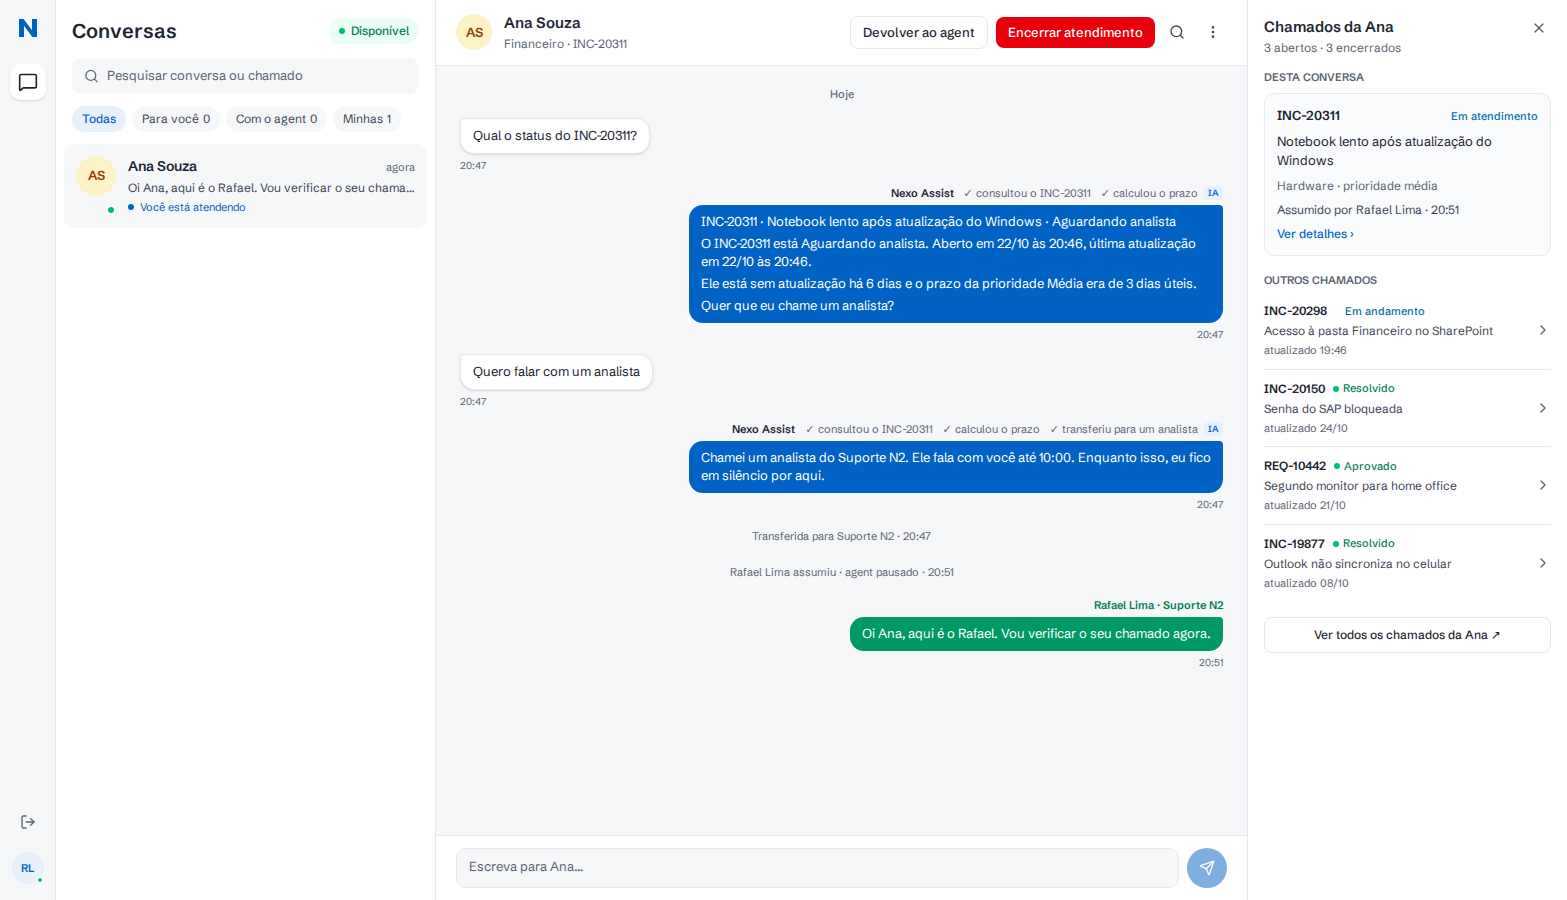
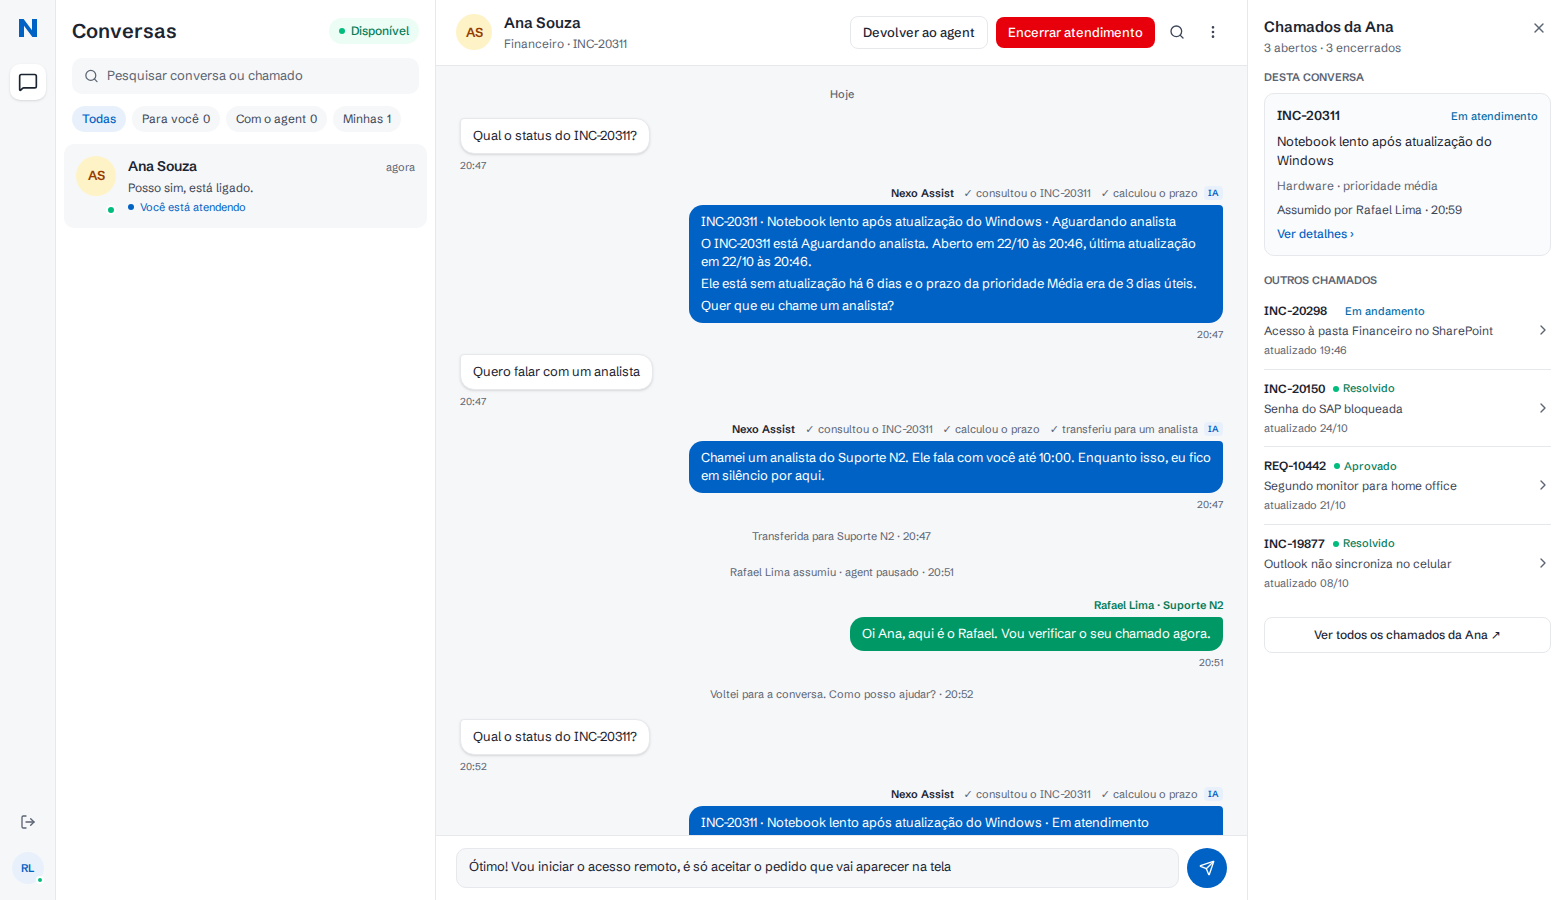
docs(console-analista): relatórios da rodada 1 e achados fechados

diff --git a/.specs/features/console-analista/screens.md b/.specs/features/console-analista/screens.md
@@ -1,0 +1,66 @@
+# Console do analista screens
+
+**Verifier**: independent sub-agent (author != verifier)
+**Round**: 1
+
+Fotos tiradas pelo verificador com Chromium (playwright-core), contexto aberto já no tamanho de cada captura (1440x900 e 1567x900, escala 1x), sem redimensionar. Caminho: Ana pediu analista de novo ("Quero falar com um analista"); Rafael abriu `/console`, escolheu o filtro e clicou em "Ana Souza" (04); depois "Assumir atendimento", resposta "Oi, Ana! Aqui é o Rafael…", Ana respondeu "Posso sim, está ligado." e Rafael deixou um rascunho no campo (05). Em 05 o filtro ativo é "Todas", porque depois de assumir "Para você" fica vazio e a captura mostra a Ana na lista. Dados (nomes, horas, contadores, quantas conversas existem, não lidas, N1/N2) vêm do seed e da caminhada e não contam como diferença.
+
+| Screen | Compared with | Verdict | Finding |
+| --- | --- | --- | --- |
+| `captures/04-console-conversa-transferida.running.png` | `captures/04-console-conversa-transferida.png` | diverges | 15 rows differ |
+| `captures/05-console-atendimento-assumido.running.png` | `captures/05-console-atendimento-assumido.png` | diverges | 13 rows differ |
+
+### `captures/04-console-conversa-transferida.running.png`
+
+| Element | Result | Picture draws |
+| --- | --- | --- |
+| arranjo geral: trilho à esquerda, lista "Conversas", conversa no centro, painel "Chamados da Ana" à direita | same | |
+| trilho: logo "N" no topo, ícone Conversas em botão destacado com badge numérico azul | same | badge "1" (dado) |
+| trilho embaixo: só o avatar "RL" com ponto verde | differs | um botão extra de sair (ícone de saída) acima do avatar "RL" |
+| cabeçalho da lista: título "Conversas" e chip verde "● Disponível" à direita | same | |
+| campo "Pesquisar conversa ou chamado" com lupa | same | |
+| filtros em chips: "Todas", "Para você N" (ativo, azul), "Com o agent N", "Minhas N" | same | |
+| item da lista: avatar com iniciais e ponto de presença verde preso ao canto inferior direito do avatar | differs | o ponto verde fica solto abaixo e fora do avatar, sob a coluna das iniciais |
+| item da lista: nome, hora à direita, prévia truncada, contador de não lidas, rótulo "● Transferida · INC-20311" em vermelho; item selecionado com fundo cinza | same | sem contador de não lidas (dado: zerado ao abrir); hora "20:54" sem azul (nota) |
+| demais itens da lista (Carla, Bruno, Diego, Elisa, Fábio, Gabriela) com divisórias | same | só a Ana existe no seed para "Para você" (dado) |
+| cabeçalho da conversa: avatar "AS", nome "Ana Souza", subtítulo "online · Financeiro · INC-20311" | differs | subtítulo "Financeiro · INC-20311", sem "online" (a spec só aprova tirar "digitando…" e ✓✓) |
+| cabeçalho: selo "Aguardando atendente" com ícone à esquerda, lupa, "⋮" | differs | selo só com texto, sem o ícone |
+| separador de dia "Hoje" em pílula com borda | differs | "Hoje" como texto solto, sem pílula |
+| mensagem do funcionário: balão branco à esquerda com a hora dentro do balão, à direita do texto | differs | hora fora do balão, numa linha abaixo dele |
+| mensagem do agent: rótulo "Nexo Assist" + chip "IA" acima, balão azul-claro com texto escuro à direita, hora (e ✓✓) dentro do balão | differs | balão azul saturado com texto branco; hora fora do balão, abaixo; rótulo traz a linha de ações (aprovada, AD-007) e o chip "IA" vai para a ponta direita |
+| linha de sistema "⇄ Transferida para Suporte N2 · 10:05": ícone e traços horizontais dos dois lados | differs | só o texto centralizado, sem ícone e sem traços |
+| conversa aberta mostrando o fim: últimas mensagens e a linha de transferência logo acima da faixa | differs | a conversa abre no topo (scrollTop 0 de 1143 px); a última mensagem do agent e "Transferida para Suporte N1 · 20:54" ficam fora da janela, abaixo |
+| "digitando…" e ✓✓ | same | ausentes, como aprova AD-009 |
+| faixa: ícone de mão em círculo, "Ana espera um atendente", "Agent pausado · até HH:MM", fundo branco | differs | sem o ícone de mão; faixa com fundo amarelado em caixa arredondada |
+| botões da faixa: "Devolver ao agent" (contorno, ícone de robô) e "Assumir atendimento" (azul cheio, ícone de headset) | differs | os dois botões só com texto, sem ícones |
+| campo desabilitado "Assuma o atendimento para responder" | same | |
+| painel: cabeçalho "Chamados da Ana", "N abertos · M encerrados", X à direita | same | "3 abertos · 3 encerrados" (dado) |
+| painel: rótulos de seção "Desta conversa" e "Outros chamados" | differs | rótulos em caixa alta: "DESTA CONVERSA", "OUTROS CHAMADOS" |
+| cartão "Desta conversa": número, "● Aguardando analista" à direita, título em destaque, "Hardware · prioridade média", divisória e linha "⇄ Transferido para um analista" com hora à direita | differs | sem divisória e sem ícone; evento "Transferido para Suporte N1 · 20:54" com hora no texto; link extra "Ver detalhes ›"; cartão branco com borda em vez de fundo cinza |
+| "Outros chamados": cada linha com ponto de cor à esquerda, título, subtítulo "INC-xxxxx · status", seta "›" à direita, divisórias | differs | três linhas por chamado: número em negrito com status ao lado (ponto antes do status), título, "atualizado …"; sem ponto à esquerda |
+| botão "Ver todos os chamados da Ana ↗" preso ao pé do painel | differs | o botão fica logo abaixo da lista, no meio do painel, não no pé |
+
+### `captures/05-console-atendimento-assumido.running.png`
+
+| Element | Result | Picture draws |
+| --- | --- | --- |
+| arranjo geral: trilho, lista, conversa, painel "Chamados da Ana" | same | |
+| trilho: logo "N", ícone Conversas com badge | same | sem badge porque "Para você" é 0 (dado, CON-11) |
+| trilho embaixo: só o avatar "RL" com ponto verde | differs | botão extra de sair acima do avatar |
+| cabeçalho da lista, "Disponível", busca e chips de filtro | same | filtro ativo "Todas" (ver nota no topo) |
+| item da Ana: avatar com ponto de presença no canto do avatar, nome, hora, prévia "Posso sim, está ligado.", rótulo "● Você está atendendo" em azul | differs | o ponto verde fica solto abaixo do avatar; resto igual |
+| demais itens da lista | same | não existem no seed (dado) |
+| cabeçalho da conversa: avatar, "Ana Souza", subtítulo "online · Financeiro" | differs | subtítulo "Financeiro · INC-20311", sem "online" |
+| cabeçalho: "Devolver ao agent" (contorno, ícone de robô), "Encerrar atendimento" (fundo vermelho-claro, texto vermelho, ícone) e "⋮"; sem lupa | differs | os dois botões sem ícones; "Encerrar atendimento" em vermelho cheio com texto branco; lupa extra entre os botões e o "⋮" |
+| mensagens do funcionário: balão branco com hora dentro | differs | hora fora do balão, abaixo |
+| mensagens do agent: "Nexo Assist" + chip "IA", balão azul-claro com texto escuro e hora dentro | differs | balão azul saturado com texto branco, hora fora do balão |
+| linhas de sistema "⇄ Transferida para Suporte N2 · 10:05" e "headset Rafael Lima assumiu · agent pausado · 10:12" com ícone e traços dos dois lados | differs | só texto centralizado, sem ícones e sem traços |
+| mensagem do analista: rótulo "Rafael Lima" + chip verde "Suporte N2", balão verde-claro com texto escuro e hora dentro | differs | rótulo "Rafael Lima · Suporte N2" em texto verde, sem chip; balão verde saturado com texto branco; hora fora |
+| conversa no fim: a resposta do Rafael e "Posso sim, está ligado." visíveis logo acima do campo | differs | a conversa abre no topo (scrollTop 0 de 1263 px); a linha "Rafael Lima assumiu", a resposta do Rafael e a da Ana ficam fora da janela |
+| ✓✓ | same | ausentes (AD-009) |
+| campo de resposta habilitado com o rascunho e botão redondo azul de enviar à direita | same | |
+| painel: cabeçalho, contagem, X | same | |
+| rótulos "Desta conversa" e "Outros chamados" | differs | em caixa alta |
+| cartão "Desta conversa": número, "● Em atendimento", título, "Hardware · prioridade média", divisória e "headset Assumido por Rafael Lima" com hora à direita | differs | status sem ponto; sem divisória e sem ícone; "Assumido por Rafael Lima · 20:59" com hora no texto; link extra "Ver detalhes ›" |
+| "Outros chamados": ponto à esquerda, título, "INC · status", seta, divisórias | differs | três linhas por chamado (número + status, título, "atualizado …"), sem ponto à esquerda |
+| botão "Ver todos os chamados da Ana ↗" no pé do painel | differs | logo abaixo da lista, no meio do painel |

diff --git a/.specs/features/console-analista/verification.md b/.specs/features/console-analista/verification.md
@@ -1,0 +1,21 @@
+# Console do analista verification
+
+**Verdict**: FAIL
+**Mutations**: 3 - probed C15, C2, C21
+**Proofs**: `proofs.md` at d4d4009
+**Verifier**: independent sub-agent (author != verifier)
+
+## Findings
+
+| Finding | Evidence | Fix | Closed |
+| --- | --- | --- | --- |
+| Uma conversa cuja última mensagem é do funcionário continua com 1 não lida depois de aberta se a contagem incluir o `read_seq`, e nenhum teste falha (CON-15) | mutação `m.seq > conv.readSeq -> m.seq >= conv.readSeq` (`packages/agent/src/console.ts:195`) não morta pela prova do C15 nem por `bun test packages/agent && bun --cwd apps/server test`; nas duas fixtures a última mensagem é do agent | provar o C15 numa conversa em que a última mensagem é do funcionário e exigir `unread` 0 na lista depois de abrir || 0aebed9 - teste "opening up to the employee's last message leaves nothing unread" (mutação 1) |
+| "Resolvida pelo agent" não olha quem escreveu por último e nenhum teste falha (CON-02) | mutação `last?.role === "agent" && -> last !== null &&` (`console.ts:175`) não morta pela prova do teste "agent, resolved after 24 h…" nem pelas suítes inteiras de agent e server; nenhuma fixture tem o funcionário por último há mais de 24 h em `agent` | incluir uma conversa `agent` com o funcionário por último há 25 h e exigir `kind: "agent"` || 0aebed9 - teste "24 h of silence after the central's answer, agent or analyst, not after the employee's" (mutação 2) |
+| O "⋮" pode habilitar "Assumir atendimento" numa conversa de outro analista ou já minha e nenhum teste falha (CON-21) | mutação `canAssume = waiting \|\| c.state === "agent" -> canAssume = !closed` (`conversation-view.tsx:321`) não morta pela prova do C21 nem por `bun --cwd apps/web test src/features/console`; a prova só abre o menu com a conversa aguardando, onde tudo está habilitado | provar o menu nos estados `voce` e `outro_analista` com "Assumir atendimento" desabilitado || 0aebed9 - teste "⋮ assume follows the state: on with the agent, off once mine" (mutação 3, C21) |
+| "Resolvida pelo agent" só existe pelo caminho das 24 h com o agent por último; o funcionário dizer que resolveu não marca nada, e a captura 04 mostra justamente esse caso | captura 04: "Fábio Nunes · Isso resolveu, obrigado! · 10:01 · Resolvida pelo agent" (mensagem do funcionário, de hoje); `summarize` (`console.ts:174-178`) exige `last.role === "agent"` e mais de 24 h; `grep resolveu packages/agent/src` não acha detecção; a premissa aprovada diz "quando o funcionário diz que resolveu ou fica 24 h sem escrever" | implementar o ramo "funcionário diz que resolveu" e cobrir com o caso do Fábio || 0aebed9 - teste "the employee saying it is solved marks it resolved" (C2) |
+| Depois de o analista responder e devolver ao agent, 24 h de silêncio não viram "Resolvida pelo agent" | exemplo próprio descartado: conversa `agent` com `analyst` "Pronto, ajustei seu acesso." há 25 h 30 min e a linha de sistema de devolução - `summarize` devolve `agent`, não `resolvida`; a premissa fala em "resposta da central", e o analista é da central | contar a resposta do analista como resposta da central e provar com esse caso || 0aebed9 - teste "24 h of silence after the central's answer…" com o analista por último (C2) |
+| A prova do C4 não mostra o filtro "Com o agent" listando nada | `apps/server/src/console.test.ts:165-176` - a única conversa é aguardando, então só se afirma `com_agent: 0`; um filtro que devolve sempre `false` passa | na prova do C4, ter conversas `agent` e `resolvida` e exigir o total e os ids certos || 0aebed9 - C4 com uma conversa `agent`: `com_agent: 1` e a ordem dos estados |
+| A prova do C10 não segura o limite de 5 s | `console-screen.test.tsx:39` passa `pollMs={30}`; o padrão `pollMs = 3000` (`console-screen.tsx:24`) não é afirmado em teste nenhum, então trocar para 60000 deixa tudo verde | afirmar que o intervalo padrão é no máximo 5000 ms, ou provar sem sobrescrever `pollMs` com relógio falso || 0aebed9 - teste "by default the screen refreshes within 5 seconds" (`POLL_MS` ≤ 5000, C10) |
+| O CON-07 contradiz a ordem da captura 04 | captura 04: Ana ("Agent pausado · até 12:05") acima de Carla ("contato em 25 min", prazo mais próximo); pelo CON-07 e por `order` (`console.ts:226-235`) Carla vem antes; a diferença não está em `## Differences from the source` | registrar a diferença com confirmação ou ajustar a regra à captura || 02feeb5 - diferença confirmada em `## Differences from the source` (André: "Prazo mais próximo (Recomendado)") |
+| A captura 04 desenha "online" no cabeçalho e o ponto verde de presença nos avatares; nenhum critério constrói isso e as diferenças aprovadas só tiram "digitando…" e ✓✓ | captura 04/05: "online · Financeiro · INC-20311" e pontos verdes; CON-14 pede nome, setor, chamado e selo; `## Differences from the source` não cita "online" | registrar a retirada de "online" e dos pontos em `## Differences from the source`, ou construí-los || 02feeb5 - "online" e as bolinhas saem; diferença confirmada (André: "Tirar (Recomendado)") |
+| O CON-14 pede o chamado no cabeçalho sempre, mas a captura 05 mostra "online · Financeiro" sem o INC-20311 depois de assumir | captura 05 vs CON-14; `conversation-view.tsx:363` junta setor e chamado em todos os estados | registrar a diferença ou esconder o chamado no estado assumido, como a captura || 02feeb5 - chamado no cabeçalho só enquanto aguarda; CON-14 com a nota (André: "Seguir a captura (Recomendado)") |

diff --git a/.specs/features/console-analista/tasks.md b/.specs/features/console-analista/tasks.md
@@ -282,5 +282,5 @@ Proof: `bun --cwd apps/web test src/features/console/conversation-view.test.tsx 
 ## Handoff
 
 **Settled mid-build:** none
-**Dispatched:** none
+**Dispatched:** Verifier e screens sub-agent em 2026-10-28 sobre HEAD d4d4009 (round 1); ambos returned
 **Walked:** 2026-10-28, `GOOGLE_GENERATIVE_AI_API_KEY= TICKETS_FAILURE_RATE=0 bun run dev` (entendimento por palavras-chave) e `bun run db:seed`; janelas de 1440x900 (04) e 1567x900 (05), qualquer senha. P1 Ver as conversas: Ana (`ana.souza@nexo.com.br`) em `/` escreve "Qual o status do INC-20311?" e "Quero falar com um analista"; Rafael (`rafael.lima@nexo.com.br`) abre `/console` e clica em "Ana Souza": lista com "Transferida · INC-20311", badge 1, "Para você 1", faixa "Ana espera um atendente · Agent pausado · até 10:00", linha "Transferida para Suporte N2 · HH:MM" e painel "Chamados da Ana" (04). P1 Assumir: "Assumir atendimento", resposta "Oi Ana, aqui é o Rafael…": "Você está atendendo", "Rafael Lima assumiu · agent pausado", "Rafael Lima · Suporte N2", "Devolver ao agent" e "Encerrar atendimento" no cabeçalho, INC-20311 "Em atendimento" com "Assumido por Rafael Lima" (05). O serviço simula quedas: o painel pode mostrar "Não foi possível carregar os chamados · Tentar de novo"; clicar recarrega. P1 Devolver: Ana vê a resposta do Rafael; "Devolver ao agent" grava "Voltei para a conversa. Como posso ajudar?" e a próxima mensagem da Ana recebe o card do INC-20311 do agent. Para voltar a 04 depois disso, a Ana pede um analista de novo. P1 Persistir: coberto por C32 (app novo sobre o mesmo banco).
